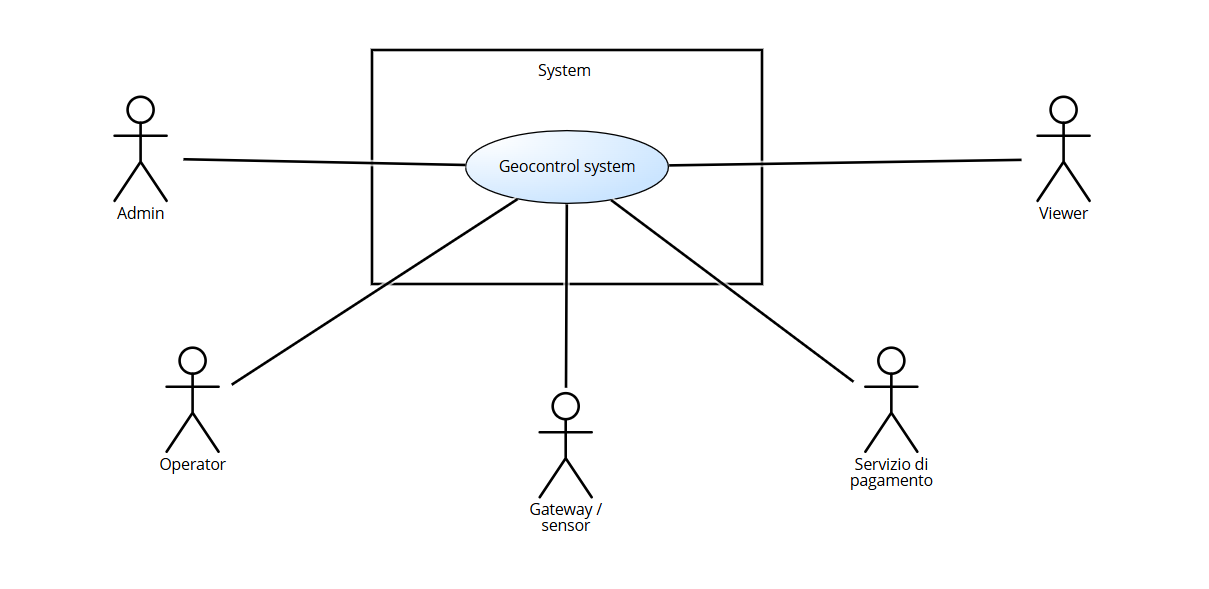
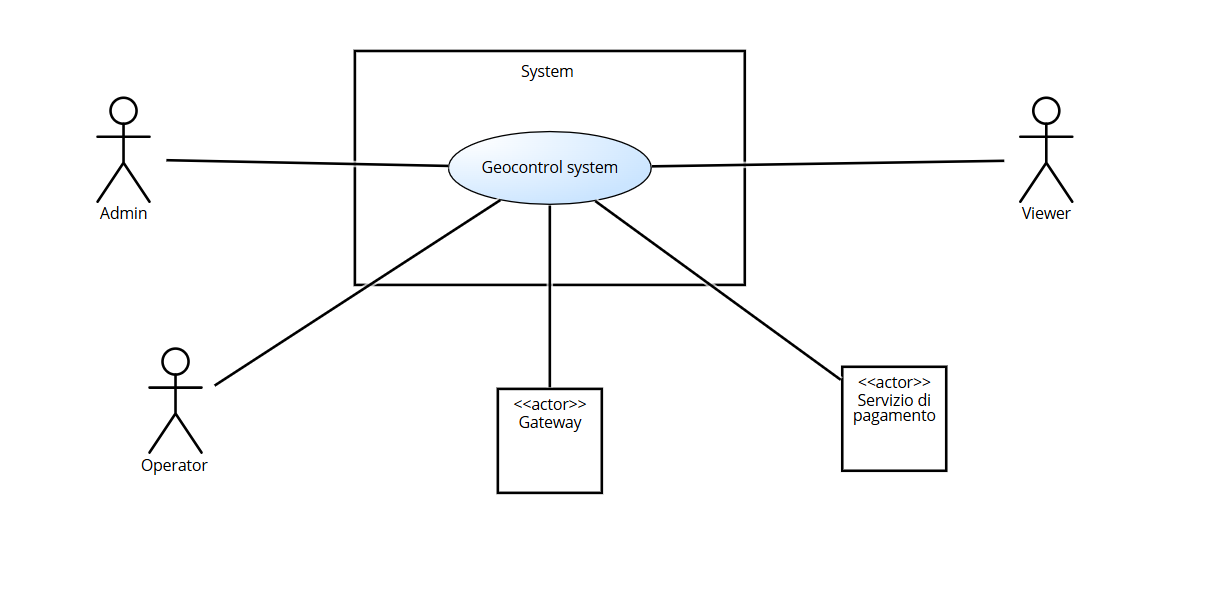
context aggiornato

diff --git a/doc/Requirements.md b/doc/Requirements.md
@@ -838,7 +838,7 @@ Storia: Sfrutta i servizi di monitoraggio per mantenere costanti temperatura, um
 ### Use Case 25, Associazione della misurazione al corrispondente sensore (UC25)
 
 (da finire)
-| Actors Involved | Admin |
+| Actors Involved | Gateway |
 | :--------------: | :------------------------------: |
 | Precondition | Il sensore deve essere registrato |
 | Post condition | La misurazione viene salvata |
@@ -850,14 +850,12 @@ Storia: Sfrutta i servizi di monitoraggio per mantenere costanti temperatura, um
 
 | Scenario 25.1  |                                       Associazione della misurazione al sensore con successo                                       |
 | :------------: | :--------------------------------------------------------------------------------------------------------------------------------: |
-|  Precondition  |                                                 Il sensore deve essere registrato                                                  |
+|  Precondition  |                                                 I sensori devono essere registrati                                                  |
 | Post condition |                                                    La misurazione viene salvata                                                    |
 |     Step#      |                                                            Descrizione                                                             |
-|       1        |                                             Admin: Clicca il pulsante di registrazione                                             |
-|       2        |                                  Sistema: Verifica la presenza di un token valido nella richiesta                                  |
-|       3        |                                               Sistema: Rileva che il token è valido                                                |
-|       4        |                                          Sistema: Chiede `username`, `password`, `ruolo`                                           |
-|       5        |                                          Admin: Inserisce `username`, `password`, `ruolo`                                          |
+|       1        |                                             Gateway: Invia i dati al sistema                                         |
+|       4        |                                          Sistema: Verifica che il MAC del gateway è registrato                                          |
+|       5        |                                 Sistema: Verifica che il MAC del sensore                          |
 |       6        |                                                   Sistema: Legge i dati immessi                                                    |
 |       7        | Sistema: Controlla che i dati immessi non siano associati a nessun account esistente. Non esiste già un account per i dati immessi |
 |       8        |                                       Sistema: Crea un nuovo user e lo memorizza nel sistema                                       |
@@ -872,6 +870,8 @@ Storia: Sfrutta i servizi di monitoraggio per mantenere costanti temperatura, um
 | Nominal Scenario |             Scenario 26.1             |
 |     Variants     |                Nessuna                |
 |    Exceptions    | Scenario 26.2, 26.3, 26.4, 26.5, 26.6 |
+
+
 
 (ci vuole il controllo sul timestamp?)
 
